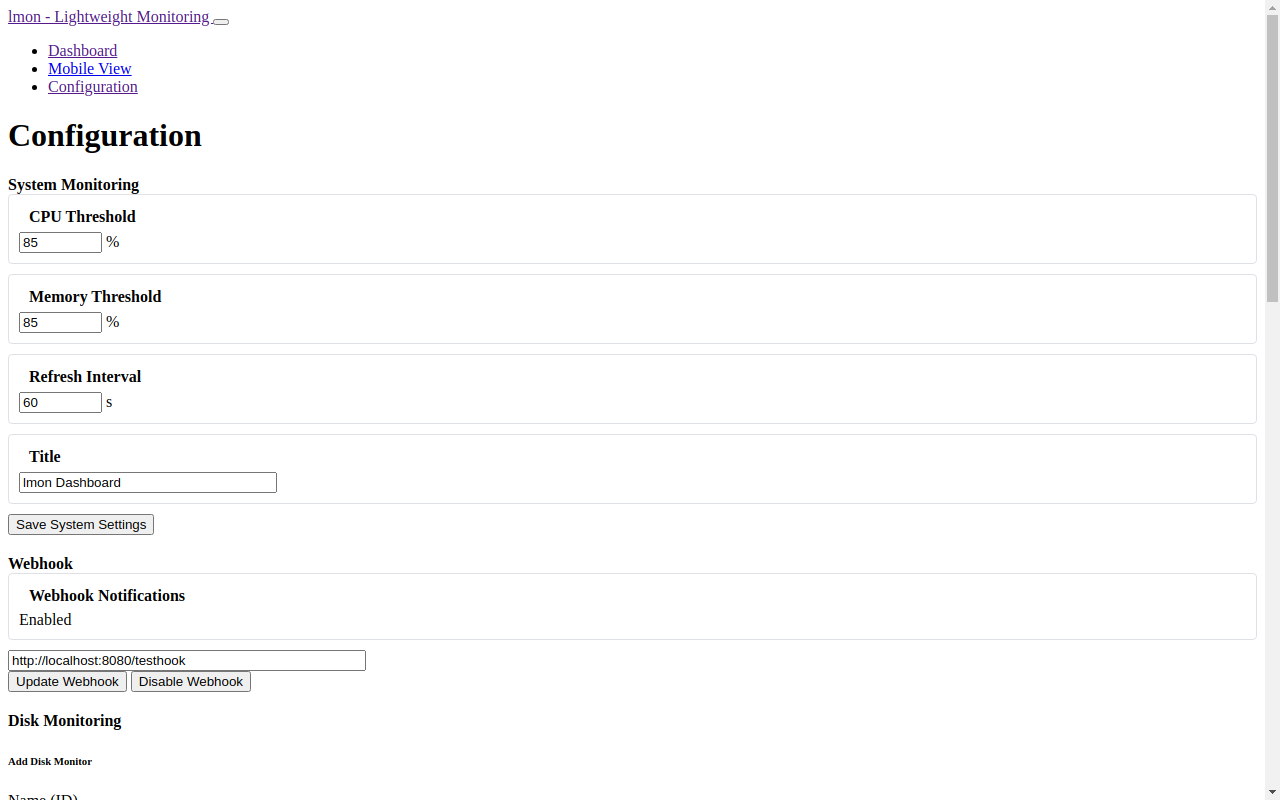
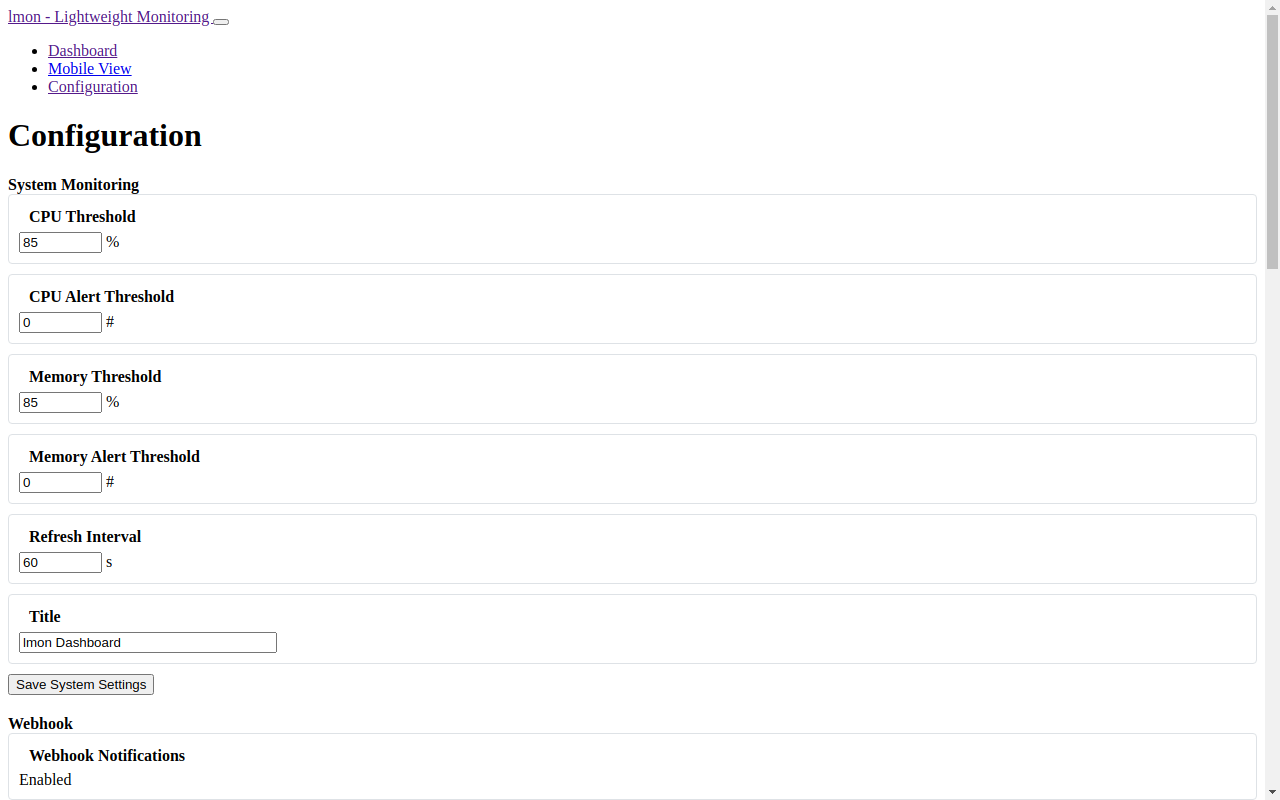
Add AlertThreshold field to UI edit screens and display failure count on dashboard

diff --git a/web/static/js/config.js b/web/static/js/config.js
@@ -24,7 +24,9 @@ document.addEventListener("DOMContentLoaded", function () {
     systemForm.addEventListener("submit", async function (e) {
       e.preventDefault();
       const cpuThreshold = document.getElementById("cpu-threshold").value;
+      const cpuAlertThreshold = document.getElementById("cpu-alert-threshold").value;
       const memoryThreshold = document.getElementById("memory-threshold").value;
+      const memoryAlertThreshold = document.getElementById("memory-alert-threshold").value;
       const intervalSeconds = document.getElementById("interval-seconds").value;
       const dashboardTitle = document.getElementById(
         "dashboard-title-inline",
@@ -32,8 +34,14 @@ document.addEventListener("DOMContentLoaded", function () {
 
       // 1. Update system config
       const systemPayload = {
-        CPU: { Threshold: Number(cpuThreshold) },
-        Memory: { Threshold: Number(memoryThreshold) },
+        CPU: { 
+          Threshold: Number(cpuThreshold),
+          AlertThreshold: Number(cpuAlertThreshold)
+        },
+        Memory: { 
+          Threshold: Number(memoryThreshold),
+          AlertThreshold: Number(memoryAlertThreshold)
+        },
         Title: dashboardTitle,
       };
 
@@ -416,6 +424,9 @@ document.addEventListener("DOMContentLoaded", function () {
       const diskThreshold = parseInt(
         document.getElementById("disk-threshold").value,
       );
+      const diskAlertThreshold = parseInt(
+        document.getElementById("disk-alert-threshold").value,
+      );
 
       if (!diskName) {
         showToast("Error", "Disk name is required", true);
@@ -426,6 +437,7 @@ document.addEventListener("DOMContentLoaded", function () {
         path: diskPath,
         icon: diskIcon,
         threshold: diskThreshold,
+        alertthreshold: diskAlertThreshold,
       };
 
       try {
@@ -499,6 +511,8 @@ document.addEventListener("DOMContentLoaded", function () {
             return;
           }
           const amberThreshold = parseInt(amberThresholdInput.value);
+          const alertThresholdInput = document.getElementById("monitor-alert-threshold");
+          const alertThreshold = alertThresholdInput ? parseInt(alertThresholdInput.value) : 1;
 
           await fetchJson(`/api/config/ping/${encodeURIComponent(name)}`, {
             method: "POST",
@@ -507,6 +521,7 @@ document.addEventListener("DOMContentLoaded", function () {
               address: target,
               timeout: timeout,
               amberThreshold: amberThreshold,
+              alertThreshold: alertThreshold,
               icon: icon,
             }),
           });
@@ -538,6 +553,9 @@ document.addEventListener("DOMContentLoaded", function () {
             ? restartContainersInput.value.trim()
             : "";
 
+          const alertThresholdInput = document.getElementById("monitor-alert-threshold");
+          const alertThreshold = alertThresholdInput ? parseInt(alertThresholdInput.value) : 1;
+
           // HTTP health check
           await fetchJson(`/api/config/health/${encodeURIComponent(name)}`, {
             method: "POST",
@@ -548,6 +566,7 @@ document.addEventListener("DOMContentLoaded", function () {
               respcode: respCode,
               icon: icon,
               restart_containers: restartContainers,
+              alertThreshold: alertThreshold,
             }),
           });
 
@@ -587,6 +606,9 @@ document.addEventListener("DOMContentLoaded", function () {
       const dockerThreshold = parseInt(
         document.getElementById("docker-threshold").value,
       );
+      const dockerAlertThreshold = parseInt(
+        document.getElementById("docker-alert-threshold").value,
+      );
 
       if (!dockerName) {
         showToast("Error", "Docker monitor name is required", "danger");
@@ -602,6 +624,7 @@ document.addEventListener("DOMContentLoaded", function () {
         containers: dockerContainers,
         icon: dockerIcon,
         threshold: dockerThreshold,
+        alertThreshold: dockerAlertThreshold,
       };
 
       try {

diff --git a/web/templates/config-system-monitoring.html b/web/templates/config-system-monitoring.html
@@ -38,6 +38,31 @@
 
         <div class="config-item mb-3">
             <div class="d-flex align-items-center">
+                <i class="bi bi-bell item-icon me-2"></i>
+                <label for="cpu-alert-threshold" class="mb-0"
+                    ><strong>CPU Alert Threshold</strong></label
+                >
+                <div class="ms-auto" style="width: 120px">
+                    <div class="input-group">
+                        <input
+                            type="number"
+                            class="form-control"
+                            style="width: 75px"
+                            id="cpu-alert-threshold"
+                            name="cpu-alert-threshold"
+                            min="1"
+                            max="100"
+                            value="{{ .Config.Monitoring.System.CPU.AlertThreshold }}"
+                            required
+                        />
+                        <span class="input-group-text">#</span>
+                    </div>
+                </div>
+            </div>
+        </div>
+
+        <div class="config-item mb-3">
+            <div class="d-flex align-items-center">
                 <i
                     class="bi bi-{{ .Config.Monitoring.System.Memory.Icon }} item-icon me-2"
                 ></i>
@@ -58,6 +83,31 @@
                             required
                         />
                         <span class="input-group-text">%</span>
+                    </div>
+                </div>
+            </div>
+        </div>
+
+        <div class="config-item mb-3">
+            <div class="d-flex align-items-center">
+                <i class="bi bi-bell item-icon me-2"></i>
+                <label for="memory-alert-threshold" class="mb-0"
+                    ><strong>Memory Alert Threshold</strong></label
+                >
+                <div class="ms-auto" style="width: 120px">
+                    <div class="input-group">
+                        <input
+                            type="number"
+                            class="form-control"
+                            style="width: 75px"
+                            id="memory-alert-threshold"
+                            name="memory-alert-threshold"
+                            min="1"
+                            max="100"
+                            value="{{ .Config.Monitoring.System.Memory.AlertThreshold }}"
+                            required
+                        />
+                        <span class="input-group-text">#</span>
                     </div>
                 </div>
             </div>

diff --git a/web/templates/config-health-list.html b/web/templates/config-health-list.html
@@ -171,6 +171,29 @@
             </div>
         </div>
 
+        <!-- Alert Threshold Field -->
+        <div class="row align-items-center mb-2">
+            <label for="monitor-alert-threshold" class="col-sm-4 col-form-label"
+                >Alert Threshold</label
+            >
+            <div class="col-sm-8">
+                <input
+                    type="number"
+                    class="form-control"
+                    id="monitor-alert-threshold"
+                    min="1"
+                    max="100"
+                    value="1"
+                    required
+                    aria-required="true"
+                    aria-label="Number of consecutive failures before alerting"
+                />
+                <small class="form-text text-muted"
+                    >Number of consecutive failures before triggering alert</small
+                >
+            </div>
+        </div>
+
         <!-- Icon Field -->
         <div class="row align-items-center mb-2">
             <label for="monitor-icon-dropdown" class="col-sm-4 col-form-label"

diff --git a/web/templates/config-docker-list.html b/web/templates/config-docker-list.html
@@ -58,6 +58,27 @@
             </div>
         </div>
         <div class="row align-items-center mb-2">
+            <label for="docker-alert-threshold" class="col-sm-4 col-form-label"
+                >Alert Threshold</label
+            >
+            <div class="col-sm-8">
+                <input
+                    type="number"
+                    class="form-control"
+                    id="docker-alert-threshold"
+                    min="1"
+                    max="100"
+                    value="1"
+                    required
+                    aria-required="true"
+                    aria-label="Number of consecutive failures before alerting"
+                />
+                <small class="form-text text-muted"
+                    >Number of consecutive failures before triggering alert</small
+                >
+            </div>
+        </div>
+        <div class="row align-items-center mb-2">
             <label for="docker-icon-dropdown" class="col-sm-4 col-form-label"
                 >Icon</label
             >

diff --git a/web/templates/config-disk-list.html b/web/templates/config-disk-list.html
@@ -50,6 +50,27 @@
             </div>
         </div>
         <div class="row align-items-center mb-2">
+            <label for="disk-alert-threshold" class="col-sm-4 col-form-label"
+                >Alert Threshold</label
+            >
+            <div class="col-sm-8">
+                <input
+                    type="number"
+                    class="form-control"
+                    id="disk-alert-threshold"
+                    min="1"
+                    max="100"
+                    value="1"
+                    required
+                    aria-required="true"
+                    aria-label="Number of consecutive failures before alerting"
+                />
+                <small class="form-text text-muted"
+                    >Number of consecutive failures before triggering alert</small
+                >
+            </div>
+        </div>
+        <div class="row align-items-center mb-2">
             <label for="disk-icon-dropdown" class="col-sm-4 col-form-label"
                 >Icon</label
             >

diff --git a/web/templates/item_list.html b/web/templates/item_list.html
@@ -30,6 +30,14 @@
                         aria-label="Status badge: {{ .Status }}"
                         >{{ .Status }}</span
                     >
+                    {{ if gt .FailureCount 0 }}
+                    <span
+                        class="badge bg-warning text-dark"
+                        aria-label="Failure count"
+                        title="Consecutive failures"
+                        >Failures: {{ .FailureCount }}</span
+                    >
+                    {{ end }}
                     <span class="ms-2" aria-label="Value">{{ .Value }}</span>
                 </div>
                 <div class="item-detail2">

diff --git a/web/templates/mobile_item_list.html b/web/templates/mobile_item_list.html
@@ -24,6 +24,14 @@
                 >{{ $item.Status }}</span
             >
         </span>
+        {{ if gt $item.FailureCount 0 }}
+        <span
+            class="badge bg-warning text-dark ms-1"
+            aria-label="Failure count"
+            title="Consecutive failures"
+            >{{ $item.FailureCount }} failures</span
+        >
+        {{ end }}
         <span class="mobile-detail" aria-label="Detail: {{ $item.Value }}"
             >{{ $item.Value }}</span
         >

diff --git a/web/uiresult.go b/web/uiresult.go
@@ -19,13 +19,14 @@ type UIResult struct {
 	TypeLabel            string       // Type of the monitor (e.g., disk, healthcheck)
 	DisplayName          string       // Display Name for UI
 	Threshold            int          // Threshold for the monitor, if applicable
+	FailureCount         int          // Current consecutive failure count
 	EvenRow              bool         // Flag to indicate if the row is even for styling purposes
 	StatusClass          string       // CSS class for the status, used for styling in the UI
 	HasRestartContainers bool         // Whether this healthcheck has restart containers configured
 }
 
 // Find icon and add it to the result.
-func newUIResult(id string, item monitors.Result, c *config.Config) UIResult {
+func newUIResult(id string, item monitors.Result, c *config.Config, failureCount int) UIResult {
 	icon := "folder" // default icon if no specific icon is found
 	threshold := 0   // default threshold if not set
 	typeLabel := ""
@@ -98,6 +99,7 @@ func newUIResult(id string, item monitors.Result, c *config.Config) UIResult {
 		Group:                item.Group,
 		DisplayName:          item.DisplayName,
 		Threshold:            threshold,
+		FailureCount:         failureCount,
 		TypeLabel:            typeLabel,
 		StatusClass:          statusClass,
 		HasRestartContainers: hasRestartContainers,

diff --git a/web/server.go b/web/server.go
@@ -475,7 +475,8 @@ func (s *Server) handleGetItems(w http.ResponseWriter, _ *http.Request) {
 func (s *Server) joinConfigToResults(items map[string]monitors.Result) map[string]UIResult {
 	results := make(map[string]UIResult)
 	for id, item := range items {
-		results[id] = newUIResult(id, item, s.config)
+		failureCount := s.monitor.GetFailureCount(id)
+		results[id] = newUIResult(id, item, s.config, failureCount)
 	}
 	return results
 }
@@ -497,7 +498,8 @@ func (s *Server) handleGetItem(w http.ResponseWriter, r *http.Request) {
 		log.Printf("handleGetItem: item not found: %s", id)
 		return
 	}
-	s.writeJson(w, newUIResult(name, item, s.config))
+	failureCount := s.monitor.GetFailureCount(name)
+	s.writeJson(w, newUIResult(name, item, s.config, failureCount))
 }
 
 // handleGetConfig responds with the current server configuration as JSON.

diff --git a/monitors/monitors.go b/monitors/monitors.go
@@ -295,6 +295,12 @@ func (s *Service) Get(name string) Monitor {
 	return m
 }
 
+// GetFailureCount retrieves the consecutive failure count for a monitor by its name.
+func (s *Service) GetFailureCount(name string) int {
+	count, _ := s.failureCount.Load(name)
+	return count
+}
+
 // Save persists the current monitor configuration to the provided config struct.
 // It clears disk and healthcheck entries and saves all monitors' configs.
 func (s *Service) Save(cfg *config.Config) error {
